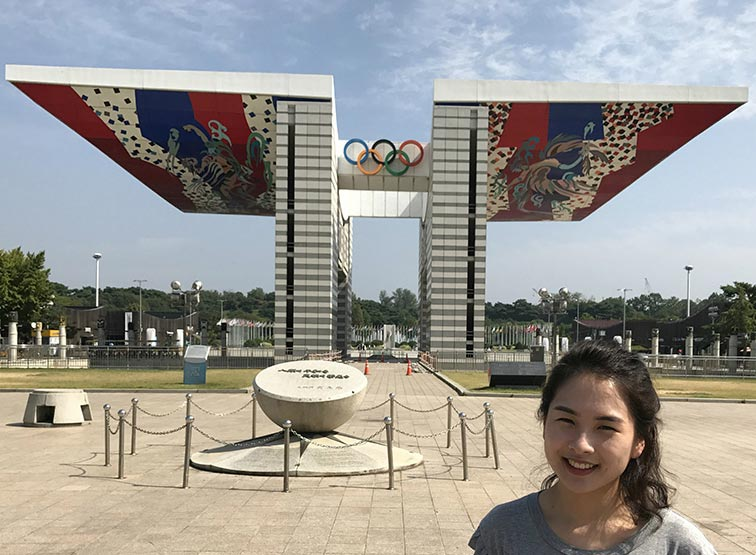
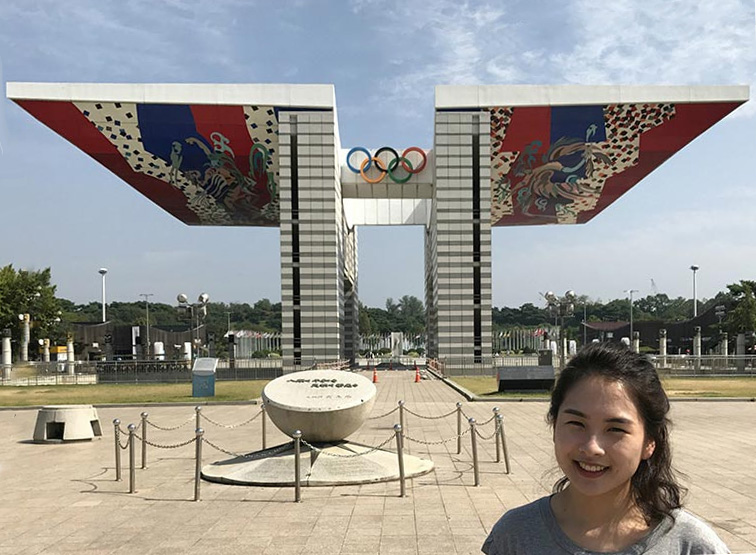
libraries: updated kristy photo

diff --git a/page-research-korean-dramas.php b/page-research-korean-dramas.php
@@ -255,7 +255,7 @@
 							<div class="col-md-5 col-md-offset-1">
 
 								<div class="arrow-right"><img src="<?php echo get_stylesheet_directory_uri() . '/immersive-stories/img/libraries/kristy-seoul.jpg' ?>" alt="Hyokyoung Yi"></div>
-								<div class="caption">Kristy Kwon visitng Seoul, Korea</div>
+								<div class="caption">Kristy Kwon visiting Seoul, Korea</div>
 							</div> 
 						</div>
 						<div class="row">
